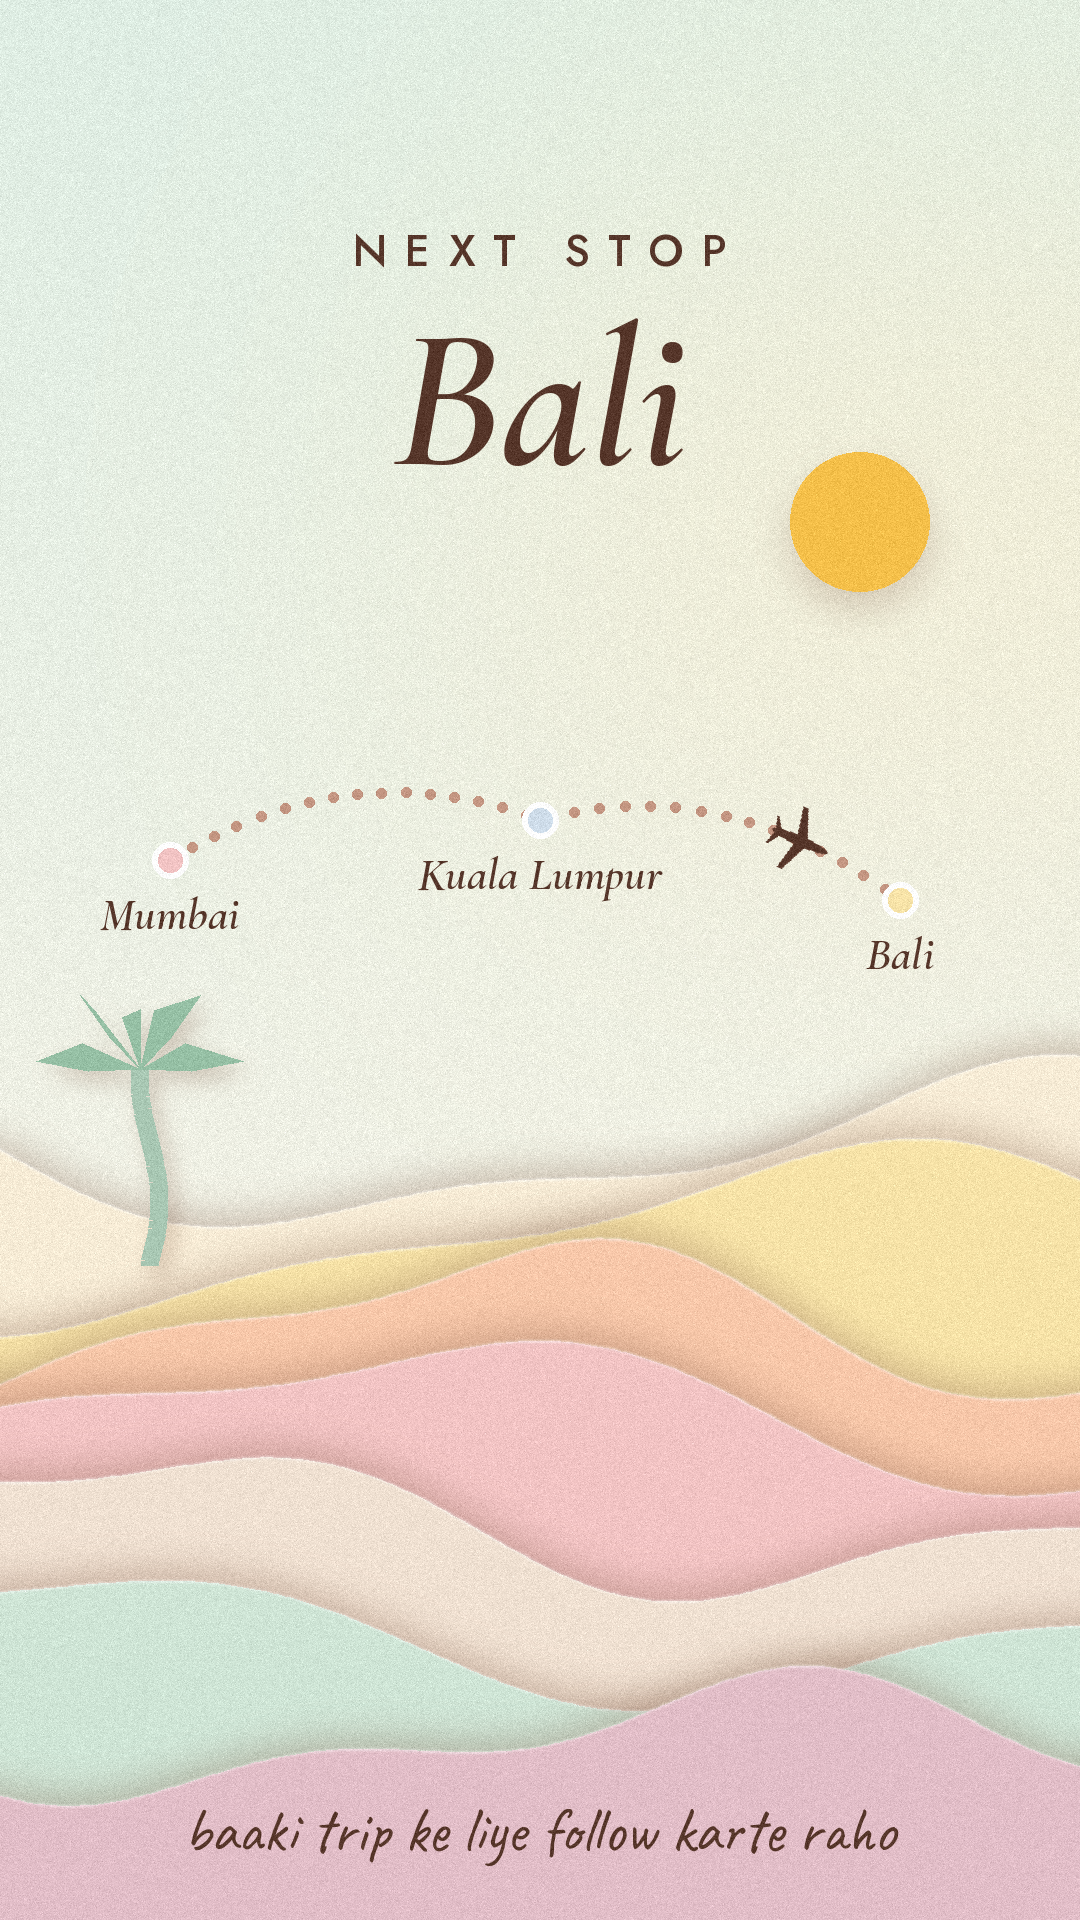
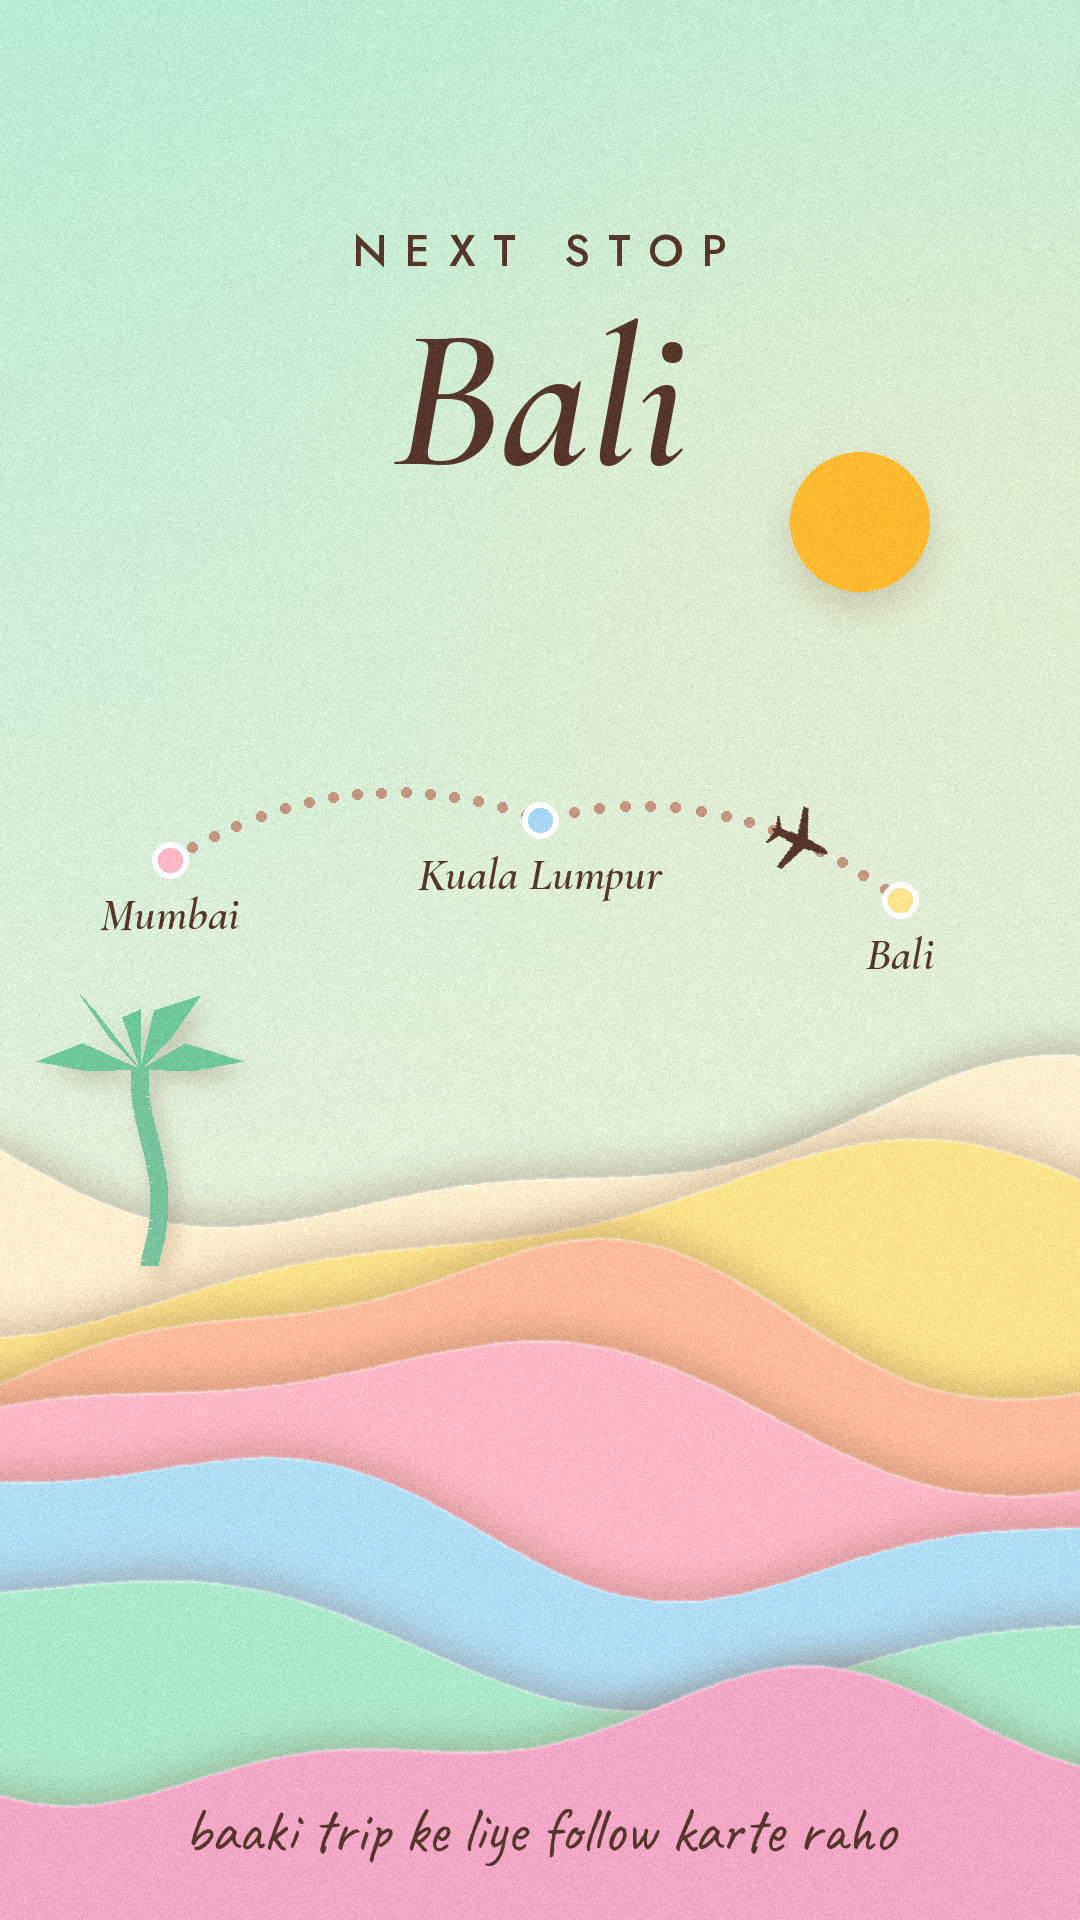
Use brighter pastel palette in style frames
Claude-Session: https://claude.ai/code/session_01Lcr6SnvJFPy48tcbSxG92y

diff --git a/tools/style_frames.py b/tools/style_frames.py
@@ -14,13 +14,13 @@ jost_l = lambda s: ImageFont.truetype(F + "g3.ttf", s)
 jost = lambda s: ImageFont.truetype(F + "g3.ttf", s)
 
 CREAM = (251, 243, 230)
-PEACH = (246, 213, 193)
-BLUSH = (242, 196, 196)
-BUTTER = (247, 227, 168)
-MINT = (207, 229, 214)
-SAGE = (169, 200, 180)
-POWDER = (207, 221, 234)
-SUN = (245, 192, 74)
+PEACH = (255, 203, 178)
+BLUSH = (255, 184, 198)
+BUTTER = (255, 228, 140)
+MINT = (172, 234, 204)
+SAGE = (120, 196, 158)
+POWDER = (168, 214, 246)
+SUN = (255, 186, 48)
 INK = (86, 54, 42)
 
 
@@ -28,7 +28,7 @@ def grade(img, warmth=1.0):
     """Warm peach film grade: lifted blacks, softened saturation, bloom, grain."""
     a = np.asarray(img.convert("RGB")).astype(np.float32) / 255.0
     lum = a.mean(axis=2, keepdims=True)
-    a = lum + (a - lum) * 0.9                        # desaturate a touch
+    a = lum + (a - lum) * 1.12                       # desaturate a touch
     a = a * np.array([1.06, 1.0, 0.90]) ** warmth    # warm shift
     a = 0.07 + a * 1.08                              # lift blacks, brighten
     a = a + np.array([0.03, 0.012, -0.005]) * warmth  # peach tint in shadows
@@ -148,10 +148,10 @@ def dotted_curve(d, pts, color, r=5, step=26):
 
 # ---------- Frame 1: hook, sunrise wing in an airplane window ----------
 def frame1():
-    base = paper_bg((250, 224, 208), (253, 238, 228)).convert("RGBA")
+    base = paper_bg((255, 212, 190), (255, 230, 226)).convert("RGBA")
     light_leak(base, (980, 160), 420, (255, 214, 160), 120)
     light_leak(base, (300, 700), 300, (255, 190, 140), 60)
-    light_leak(base, (80, 1700), 380, BLUSH, 90)
+    light_leak(base, (80, 1700), 420, BLUSH, 150)
 
     ww, wh = 720, 1000
     wx, wy = (W - ww) // 2, 330
@@ -241,7 +241,7 @@ def frame2():
 
 # ---------- Frame 3: paper-cut outro, route complete, next stop Bali ----------
 def frame3():
-    base = paper_bg((223, 238, 228), CREAM).convert("RGBA")
+    base = paper_bg((186, 236, 214), (255, 244, 222)).convert("RGBA")
     light_leak(base, (820, 520), 380, (255, 236, 200), 120)
 
     # sun
@@ -268,13 +268,13 @@ def frame3():
 
     # layered paper waves from the bottom
     layers = [
-        (1150, 70, 0.0045, 0.0, (247, 236, 214)),
+        (1150, 70, 0.0045, 0.0, (255, 240, 206)),
         (1240, 80, 0.0040, 1.3, BUTTER),
-        (1330, 75, 0.0050, 2.1, (248, 200, 170)),
+        (1330, 75, 0.0050, 2.1, (255, 188, 156)),
         (1420, 70, 0.0042, 3.0, BLUSH),
-        (1520, 65, 0.0048, 4.2, (240, 225, 210)),
+        (1520, 65, 0.0048, 4.2, (176, 222, 246)),
         (1630, 60, 0.0040, 5.0, MINT),
-        (1740, 50, 0.0052, 0.7, (226, 190, 200)),
+        (1740, 50, 0.0052, 0.7, (244, 168, 200)),
     ]
     for y0, amp, freq, ph, col in layers:
         poly = [(x, y0 + amp * math.sin(x * freq + ph) + 25 * math.sin(x * freq * 2.3 + ph * 1.7)) for x in range(-10, W + 11, 6)]
@@ -302,7 +302,7 @@ def frame3():
     for a, l in [(-160, 110), (-120, 120), (-60, 120), (-20, 110), (-90, 90)]:
         r = math.radians(a)
         ex, ey = tx + l * math.cos(r), ty + l * math.sin(r) + 30
-        pd.polygon([(tx, ty), ((tx + ex) / 2 + 18 * math.sin(r), (ty + ey) / 2 - 22), (ex, ey), ((tx + ex) / 2, (ty + ey) / 2 + 6)], fill=(150, 192, 165))
+        pd.polygon([(tx, ty), ((tx + ex) / 2 + 18 * math.sin(r), (ty + ey) / 2 - 22), (ex, ey), ((tx + ex) / 2, (ty + ey) / 2 + 6)], fill=(110, 200, 156))
     shadow(base, palm.getchannel("A"), (8, 10), blur=10, alpha=70)
     base.alpha_composite(palm)
 
